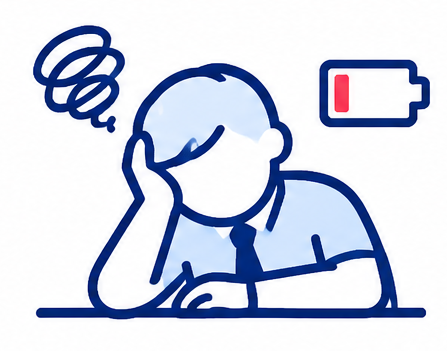
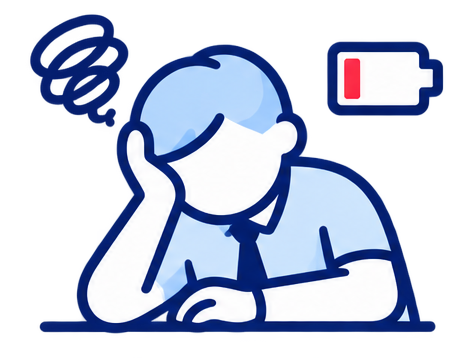
Use transparent images, add proactive employee talks, allow multiple special employees

Changed region(s): [[0.0582, 0.0285, 0.9597, 0.9402], [0.698, 0.114, 0.9888, 0.3704]]

diff --git a/company.js b/company.js
@@ -39,11 +39,11 @@
   var WEEKDAY_NAMES = ["周一", "周二", "周三", "周四", "周五", "周六", "周日"];
 
   var COWORKERS = [
-    { name: "老张", bias: 0.75, desc: "老员工，习惯加班", rationality: 0.40, familiarity: 0.40 },
-    { name: "小李", bias: 0.55, desc: "看情况，随大流", rationality: 0.60, familiarity: 0.30 },
-    { name: "小王", bias: 0.35, desc: "想准点下班", rationality: 0.80, familiarity: 0.50 },
-    { name: "小周", bias: 0.25, desc: "能溜就溜", rationality: 0.90, familiarity: 0.20 },
-    { name: "阿杰", bias: 0.10, desc: "几乎不加班", rationality: 0.70, familiarity: 0.30 }
+    { name: "老张", bias: 0.75, desc: "老员工，习惯加班", rationality: 0.40, familiarity: 0.40, proactiveChance: 0.55 },
+    { name: "小李", bias: 0.55, desc: "看情况，随大流", rationality: 0.60, familiarity: 0.30, proactiveChance: 0.40 },
+    { name: "小王", bias: 0.35, desc: "想准点下班", rationality: 0.80, familiarity: 0.50, proactiveChance: 0.35 },
+    { name: "小周", bias: 0.25, desc: "能溜就溜", rationality: 0.90, familiarity: 0.20, proactiveChance: 0.20 },
+    { name: "阿杰", bias: 0.10, desc: "几乎不加班", rationality: 0.70, familiarity: 0.30, proactiveChance: 0.10 }
   ];
 
   var SPECIALS = {
@@ -73,6 +73,13 @@
   var talkOvertimeBtn = document.getElementById("talk-overtime-btn");
   var talkLeaveBtn = document.getElementById("talk-leave-btn");
   var companyTalkResultEl = document.getElementById("company-talk-result");
+  var companyProactiveEl = document.getElementById("company-proactive");
+  var proactiveSpeakerEl = document.getElementById("proactive-speaker");
+  var proactiveTextEl = document.getElementById("proactive-text");
+  var proactiveAgreeBtn = document.getElementById("proactive-agree-btn");
+  var proactiveRefuseBtn = document.getElementById("proactive-refuse-btn");
+  var proactivePretendAgreeBtn = document.getElementById("proactive-pretend-agree-btn");
+  var proactivePretendRefuseBtn = document.getElementById("proactive-pretend-refuse-btn");
   var returnCompanyBtn = document.getElementById("return-company-btn");
   var companyBackSandboxBtn = document.getElementById("company-back-sandbox-btn");
   var lessonNav = document.querySelector(".lesson-nav");
@@ -87,6 +94,7 @@
       desc: seed.desc,
       rationality: seed.rationality || 0,
       familiarity: seed.familiarity || 0.3,
+      proactiveChance: seed.proactiveChance || 0,
       type: "normal",
       tag: null,
       choice: null,
@@ -102,10 +110,11 @@
     };
   }
 
-  function makeSpecial(type) {
+  function makeSpecial(type, count) {
     var seed = SPECIALS[type];
+    var number = count > 1 ? String(count) : "";
     return {
-      name: seed.name,
+      name: seed.name + number,
       bias: 0.5,
       desc: seed.desc,
       rationality: 0,
@@ -144,7 +153,8 @@
       hasTalkedThisRound: false,
       communicationLog: [],
       coworkers: COWORKERS.map(makeCoworker),
-      pendingSpecialTypes: ["A", "B", "C"],
+      specialCounts: { A: 0, B: 0, C: 0 },
+      proactiveEvent: null,
       done: false
     };
   }
@@ -205,16 +215,17 @@
 
   function addSpecialIfDue() {
     var currentRound = state.round + 1;
-    if (currentRound < SPECIAL_ADD_FIRST_ROUND || state.pendingSpecialTypes.length === 0) {
+    if (currentRound < SPECIAL_ADD_FIRST_ROUND) {
       return null;
     }
 
     var shouldAdd = currentRound === SPECIAL_ADD_FIRST_ROUND || Math.random() < SPECIAL_ADD_CHANCE;
     if (!shouldAdd) return null;
 
-    var index = Math.floor(Math.random() * state.pendingSpecialTypes.length);
-    var type = state.pendingSpecialTypes.splice(index, 1)[0];
-    var employee = makeSpecial(type);
+    var types = ["A", "B", "C"];
+    var type = types[Math.floor(Math.random() * types.length)];
+    state.specialCounts[type] += 1;
+    var employee = makeSpecial(type, state.specialCounts[type]);
     state.coworkers.push(employee);
     return employee;
   }
@@ -295,6 +306,75 @@
     talkOvertimeBtn.disabled = talkDisabled;
     talkLeaveBtn.disabled = talkDisabled;
     companyTalkTargetEl.disabled = talkDisabled;
+  }
+
+  function maybeTriggerProactive() {
+    if (state.proactiveEvent) return;
+
+    var candidates = state.coworkers.filter(function (c) {
+      return c.type === "normal" && !c.fired;
+    });
+
+    if (!candidates.length) return;
+
+    var chosen = null;
+    for (var i = 0; i < candidates.length; i++) {
+      var chance = candidates[i].proactiveChance || 0;
+      if (Math.random() < chance) {
+        chosen = candidates[i];
+        break;
+      }
+    }
+
+    if (!chosen) return;
+
+    var text = chosen.bias >= 0.5
+      ? "今晚一起加班吗？我想听听你的真实想法。"
+      : "这轮我想准点下班，你怎么看？";
+
+    state.proactiveEvent = {
+      name: chosen.name,
+      text: text
+    };
+  }
+
+  function renderProactive() {
+    if (state.proactiveEvent && !state.done) {
+      proactiveSpeakerEl.textContent = state.proactiveEvent.name;
+      proactiveTextEl.textContent = state.proactiveEvent.text;
+      companyProactiveEl.classList.remove("is-hidden");
+    } else {
+      companyProactiveEl.classList.add("is-hidden");
+    }
+  }
+
+  function handleProactive(response) {
+    if (!state.proactiveEvent) return;
+
+    var event = state.proactiveEvent;
+    var repChange = 0;
+    var message = "";
+
+    if (response === "agree") {
+      repChange = 2;
+      message = "你真诚同意了 " + event.name + " 的提议，员工好感 +2。";
+    } else if (response === "refuse") {
+      repChange = 0;
+      message = "你真诚拒绝了 " + event.name + " 的提议。";
+    } else if (response === "pretend-agree") {
+      repChange = -3;
+      message = "你假装同意 " + event.name + "，对方感觉到了不真诚，员工好感 -3。";
+    } else if (response === "pretend-refuse") {
+      repChange = -3;
+      message = "你假装拒绝 " + event.name + "，对方感觉到了不真诚，员工好感 -3。";
+    }
+
+    state.playerReputation = clamp(state.playerReputation + repChange, 0, 100);
+    state.communicationLog.push(message);
+    companyTalkResultEl.textContent = message;
+    state.proactiveEvent = null;
+    renderProactive();
+    render();
   }
 
   function talk(direction) {
@@ -413,6 +493,7 @@
     updateActionButtons();
     renderCoworkers();
     renderCommunication();
+    renderProactive();
 
     if (state.done) {
       companyActionsEl.classList.add("is-hidden");
@@ -494,6 +575,8 @@
     } else {
       state.hasTalkedThisRound = false;
       state.communicationLog = [];
+      state.proactiveEvent = null;
+      maybeTriggerProactive();
       render();
     }
   }
@@ -641,6 +724,7 @@
     companyUnlockEl.classList.add("is-hidden");
     companyActionsEl.classList.remove("is-hidden");
     companyResultEl.classList.add("is-hidden");
+    maybeTriggerProactive();
     render();
   }
 
@@ -652,6 +736,7 @@
     companyUnlockEl.classList.add("is-hidden");
     companyActionsEl.classList.remove("is-hidden");
     companyResultEl.classList.add("is-hidden");
+    maybeTriggerProactive();
     render();
   }
 
@@ -667,6 +752,10 @@
     if (lessonNav) lessonNav.classList.remove("is-hidden");
   }
 
+  proactiveAgreeBtn.addEventListener("click", function () { handleProactive("agree"); });
+  proactiveRefuseBtn.addEventListener("click", function () { handleProactive("refuse"); });
+  proactivePretendAgreeBtn.addEventListener("click", function () { handleProactive("pretend-agree"); });
+  proactivePretendRefuseBtn.addEventListener("click", function () { handleProactive("pretend-refuse"); });
   startBtn.addEventListener("click", startGame);
   overtimeBtn.addEventListener("click", function () { playRound(isWeekend() ? "work" : "overtime"); });
   leaveBtn.addEventListener("click", function () { playRound(isWeekend() ? "rest" : "leave"); });

diff --git a/styles.css b/styles.css
@@ -1341,10 +1341,6 @@ tbody tr:hover {
   display: inline-flex;
   align-items: center;
   justify-content: center;
-  background: #f8fafc;
-  border: 1px solid var(--border);
-  border-radius: 24px;
-  padding: 14px;
   margin-bottom: 16px;
 }
 
@@ -1352,7 +1348,7 @@ tbody tr:hover {
   width: 180px;
   max-width: 60vw;
   height: auto;
-  border-radius: 14px;
+  filter: drop-shadow(0 10px 24px rgba(0, 0, 0, 0.35));
 }
 
 .stat-icon {
@@ -1361,9 +1357,6 @@ tbody tr:hover {
   height: 28px;
   margin-right: 7px;
   vertical-align: middle;
-  background: #f8fafc;
-  border-radius: 8px;
-  overflow: hidden;
 }
 
 .stat-icon img {
@@ -1379,9 +1372,6 @@ tbody tr:hover {
   width: 34px;
   height: 34px;
   margin-right: 10px;
-  background: rgba(255, 255, 255, 0.92);
-  border-radius: 10px;
-  overflow: hidden;
   vertical-align: middle;
 }
 
@@ -1389,16 +1379,13 @@ tbody tr:hover {
   width: 100%;
   height: 100%;
   object-fit: contain;
+  filter: drop-shadow(0 3px 6px rgba(0, 0, 0, 0.35));
 }
 
 .result-image {
   display: inline-flex;
   align-items: center;
   justify-content: center;
-  background: #f8fafc;
-  border: 1px solid var(--border);
-  border-radius: 16px;
-  padding: 10px;
   margin-bottom: 10px;
 }
 
@@ -1406,7 +1393,7 @@ tbody tr:hover {
   width: 120px;
   max-width: 50vw;
   height: auto;
-  border-radius: 10px;
+  filter: drop-shadow(0 8px 18px rgba(0, 0, 0, 0.35));
 }
 
 
@@ -1557,4 +1544,52 @@ tbody tr:hover {
   color: #f472b6;
   border-color: rgba(244, 114, 182, 0.45);
   background: rgba(244, 114, 182, 0.12);
+}
+
+
+/* 员工主动沟通面板 */
+.company-proactive {
+  background: linear-gradient(180deg, var(--surface-2), var(--surface-3));
+  border: 1px solid var(--border);
+  border-left: 4px solid var(--accent);
+  border-radius: 16px;
+  padding: 14px 16px;
+  margin-bottom: 16px;
+}
+
+.proactive-head {
+  font-size: 0.95rem;
+  margin-bottom: 6px;
+}
+
+.proactive-head strong {
+  color: var(--accent);
+}
+
+#proactive-text {
+  margin: 0 0 12px;
+  color: var(--muted);
+  font-size: 0.9rem;
+}
+
+.proactive-actions {
+  display: flex;
+  gap: 8px;
+  flex-wrap: wrap;
+}
+
+.mini-btn {
+  background: var(--surface-3);
+  color: var(--text);
+  border: 1px solid var(--border);
+}
+
+.mini-btn.cooperate {
+  border: 0;
+  color: white;
+}
+
+.mini-btn.defect {
+  border: 0;
+  color: white;
 }

diff --git a/index.html b/index.html
@@ -40,6 +40,17 @@
         <p id="company-status-text">选择这一轮是否加班。</p>
       </div>
 
+      <div id="company-proactive" class="company-proactive is-hidden">
+        <div class="proactive-head"><strong id="proactive-speaker">员工</strong> 主动找你</div>
+        <p id="proactive-text">关于这一轮是否加班，想听听你的想法。</p>
+        <div class="proactive-actions">
+          <button id="proactive-agree-btn" class="mini-btn cooperate" type="button">真诚同意</button>
+          <button id="proactive-refuse-btn" class="mini-btn defect" type="button">真诚拒绝</button>
+          <button id="proactive-pretend-agree-btn" class="mini-btn" type="button">假装同意</button>
+          <button id="proactive-pretend-refuse-btn" class="mini-btn" type="button">假装拒绝</button>
+        </div>
+      </div>
+
       <div id="company-communication" class="company-communication">
         <div class="communication-head">
           <h3>主动交流</h3>
